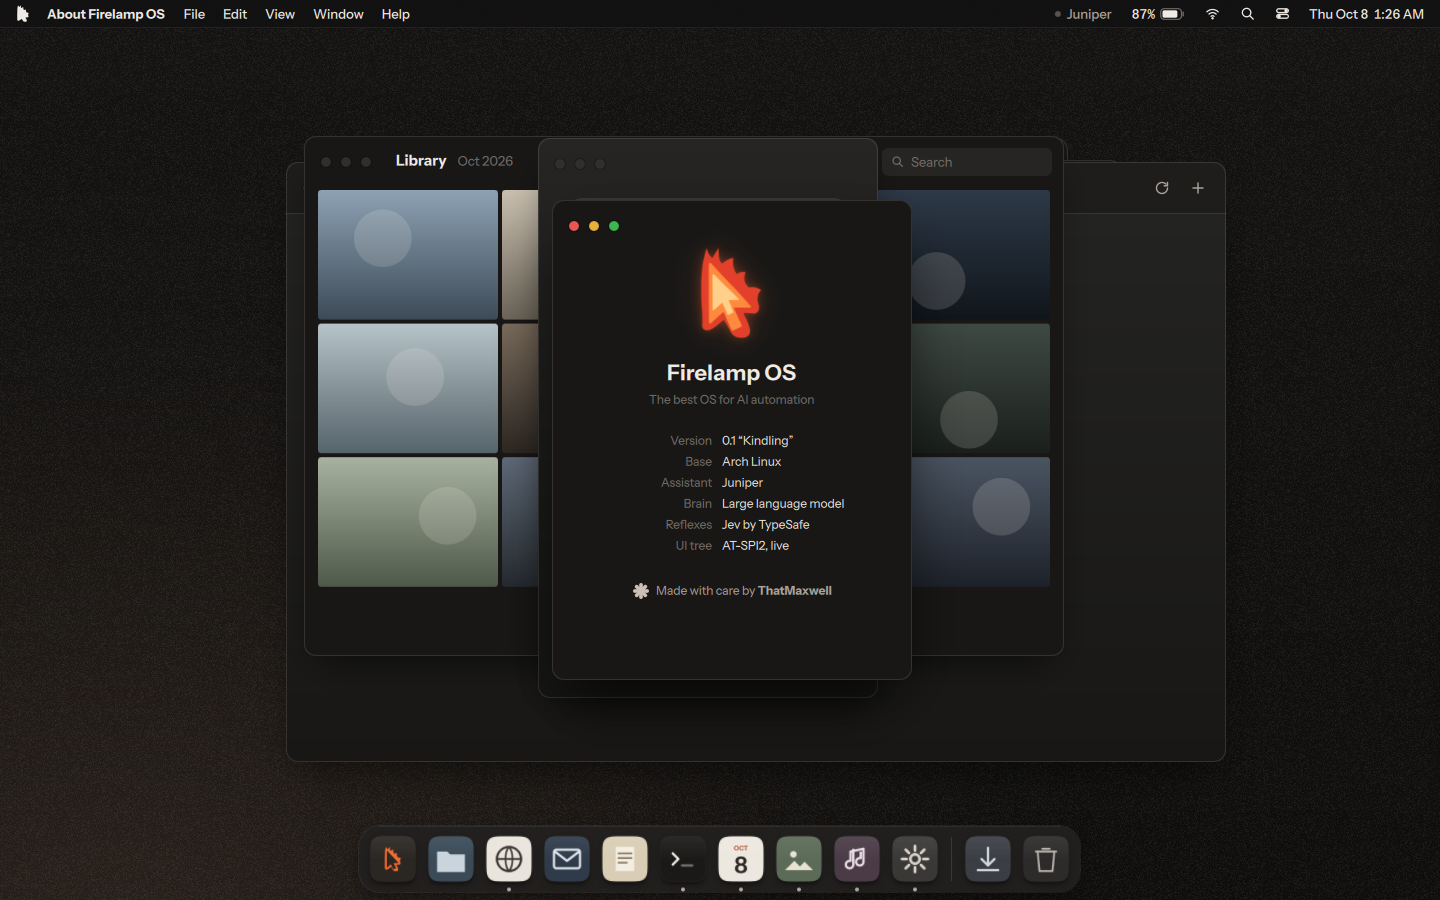
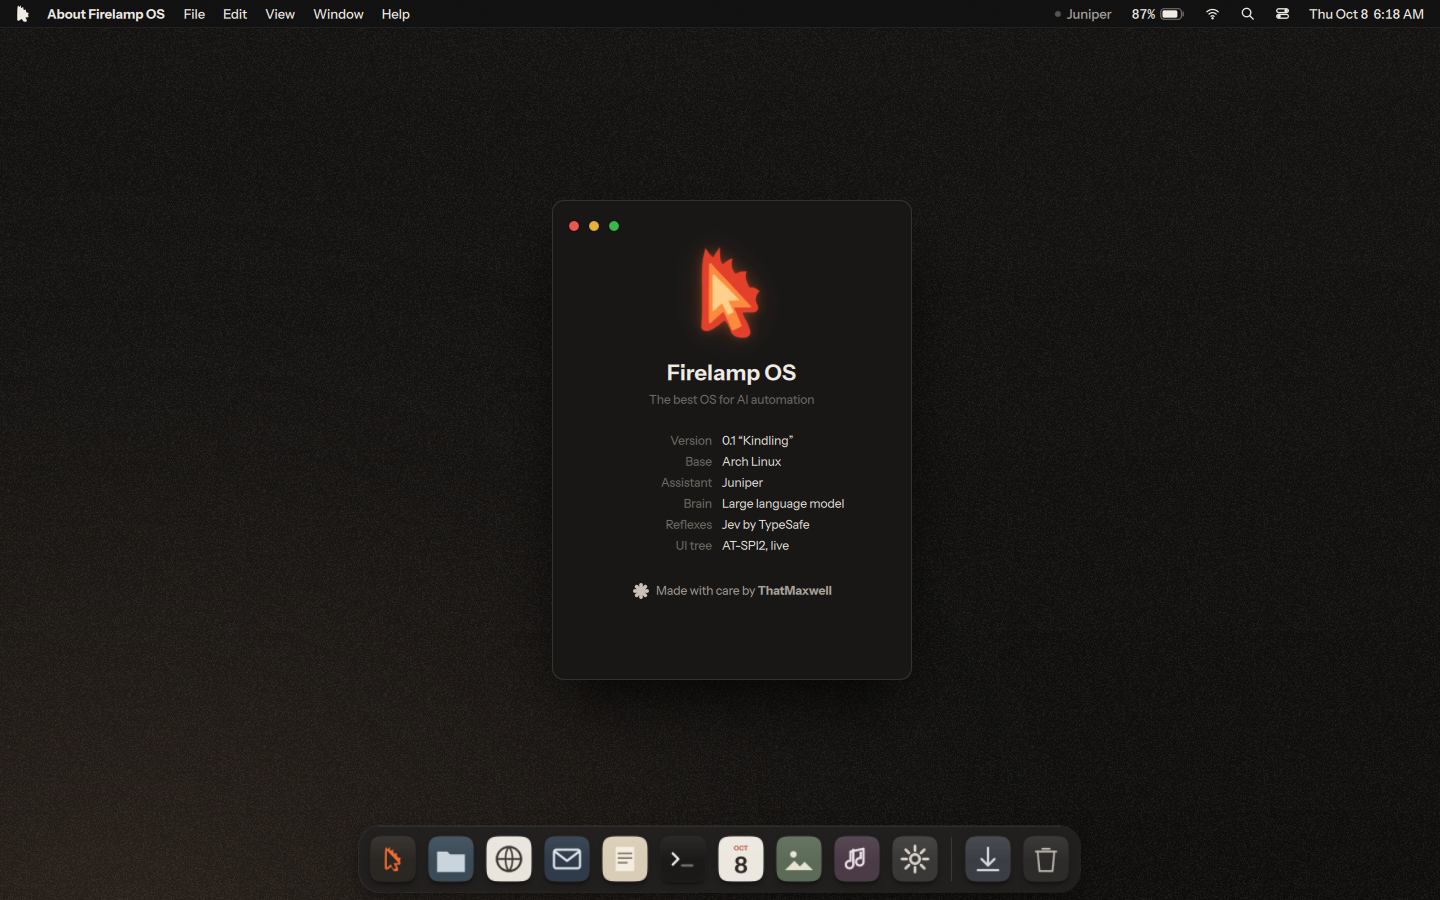
Apps: real CC0 photos, sentence-case Settings, Web recents
Photos and Music use CC0/public-domain photography (credits in
shell/assets/CREDITS) instead of placeholder shapes; Music covers are built
from the same photos with simple type. Settings section headers are
sentence case and the window fits its content. Web drops the monogram grid
for three recent pages. The apps capture closes each window before the next.

Claude-Session: https://claude.ai/code/session_01B11KmgS7KywUE1jfuntsyj

Changed region(s): [[0.2188, 0.1556, 0.375, 0.6533], [0.5938, 0.1556, 0.75, 0.6533], [0.9375, 0.0, 0.9688, 0.0311]]

diff --git a/shell/apps/Music.qml b/shell/apps/Music.qml
@@ -1,6 +1,5 @@
-// Music: now playing.
+// Music: now playing, and what's next. Covers are real photographs with simple type.
 import QtQuick
-import QtQuick.Effects
 import "../components"
 
 Rectangle {
@@ -8,45 +7,80 @@ Rectangle {
     property var win
     property bool playing: true
     function start(opts) {}
-    gradient: Gradient { GradientStop { position: 0; color: "#262524" } GradientStop { position: 0.6; color: "#1a1a19" } GradientStop { position: 1; color: "#151514" } }
+    color: Theme.surface0
+
+    // an album cover: a photograph, the title set small in the corner
+    component Cover: Item {
+        id: cv
+        property string photo
+        property string title
+        property string artist
+        property real type: 1
+        clip: true
+        Image { anchors.fill: parent; source: "../assets/photos/" + cv.photo + ".jpg"; fillMode: Image.PreserveAspectCrop; smooth: true; mipmap: true; asynchronous: true }
+        Rectangle { anchors.fill: parent; gradient: Gradient { GradientStop { position: 0.55; color: "transparent" } GradientStop { position: 1; color: Qt.rgba(0, 0, 0, 0.45) } } }
+        Column {
+            visible: cv.type > 0.5
+            x: 14 * cv.type; anchors.bottom: parent.bottom; anchors.bottomMargin: 12 * cv.type; spacing: 1
+            Text { text: cv.title; color: "#F4EFE6"; font.family: Theme.font; font.pixelSize: 15 * cv.type; font.weight: Font.DemiBold }
+            Text { text: cv.artist; color: Qt.rgba(244 / 255, 239 / 255, 230 / 255, 0.7); font.family: Theme.font; font.pixelSize: 11 * cv.type }
+        }
+    }
+
     Column {
         anchors.horizontalCenter: parent.horizontalCenter
-        y: 60; width: parent.width - 60; spacing: 18
-        Rectangle {
-            width: parent.width; height: width; radius: 14
-            gradient: Gradient { GradientStop { position: 0; color: "#3a3836" } GradientStop { position: 1; color: "#1e1d1c" } }
-            scale: app.playing ? 1 : 0.88
-            Behavior on scale { NumberAnimation { duration: 500; easing.type: Easing.OutQuint } }
-            // album art: two quiet shapes, no logo
-            Rectangle { x: parent.width * 0.18; y: parent.height * 0.2; width: parent.width * 0.46; height: width; radius: width / 2; color: "#5C6B78"; opacity: 0.85 }
-            Rectangle { x: parent.width * 0.42; y: parent.height * 0.42; width: parent.width * 0.38; height: width; radius: 6; color: "#C9BFAF"; opacity: 0.8 }
+        y: 56; width: parent.width - 48; spacing: 16
+        Cover {
+            width: parent.width; height: width
+            photo: "deep-field"; title: "Slow Rooms"; artist: "Hearth Tapes"
+            scale: app.playing ? 1 : 0.9
+            Behavior on scale { NumberAnimation { duration: 400; easing.type: Easing.OutQuint } }
+            layer.enabled: true
+            Rectangle { anchors.fill: parent; color: "transparent"; border.color: Theme.hairline; border.width: 1 }
         }
         Column {
             spacing: 2
-            Text { text: "Slow Rooms"; color: Theme.text; font.family: Theme.font; font.pixelSize: 17; font.weight: Font.Bold }
-            Text { text: "Hearth Tapes · Night Shift"; color: Theme.text3; font.family: Theme.font; font.pixelSize: 13 }
+            Text { text: "Night Shift"; color: Theme.text; font.family: Theme.font; font.pixelSize: 17; font.weight: Font.Bold }
+            Text { text: "Hearth Tapes · Slow Rooms"; color: Theme.text3; font.family: Theme.font; font.pixelSize: 13 }
         }
         Column {
             width: parent.width; spacing: 4
-            Rectangle { width: parent.width; height: 4; radius: 2; color: Qt.rgba(1, 1, 1, 0.12)
+            Rectangle { width: parent.width; height: 4; radius: 2; color: Theme.surface3
                 Rectangle { height: 4; radius: 2; color: Theme.text2; width: parent.width * 0.34
                     NumberAnimation on width { running: app.playing; to: parent.width; duration: 140000 } } }
             Item { width: parent.width; height: 14
-                Text { text: "1:12"; color: Theme.text3; font.family: Theme.font; font.pixelSize: 10 }
-                Text { anchors.right: parent.right; text: "-2:21"; color: Theme.text3; font.family: Theme.font; font.pixelSize: 10 } }
+                Text { text: "1:12"; color: Theme.text3; font.family: Theme.mono; font.pixelSize: 10 }
+                Text { anchors.right: parent.right; text: "-2:21"; color: Theme.text3; font.family: Theme.mono; font.pixelSize: 10 } }
         }
         Row {
             anchors.horizontalCenter: parent.horizontalCenter; spacing: 34
-            Glyph { name: "chevronL"; width: 22; height: 22; anchors.verticalCenter: parent.verticalCenter }
+            Glyph { name: "chevronL"; width: 20; height: 20; color: Theme.text2; anchors.verticalCenter: parent.verticalCenter }
             Rectangle {
                 property string aiName: app.playing ? "Pause" : "Play"
                 property string aiRole: "button"
                 function aiActivate() { app.playing = !app.playing; }
-                width: 52; height: 52; radius: 26; color: Theme.text
-                Glyph { anchors.centerIn: parent; name: app.playing ? "pause" : "play"; color: "#1b1210"; width: 22; height: 22 }
+                width: 48; height: 48; radius: 24; color: Theme.text
+                Glyph { anchors.centerIn: parent; name: app.playing ? "pause" : "play"; color: Theme.bg; width: 20; height: 20 }
                 MouseArea { anchors.fill: parent; onClicked: parent.aiActivate() }
             }
-            Glyph { name: "chevron"; width: 22; height: 22; anchors.verticalCenter: parent.verticalCenter }
+            Glyph { name: "chevron"; width: 20; height: 20; color: Theme.text2; anchors.verticalCenter: parent.verticalCenter }
+        }
+        Rectangle { width: parent.width; height: 1; color: Theme.hairline }
+        Column {
+            width: parent.width; spacing: 8
+            Text { text: "Up next"; color: Theme.text2; font.family: Theme.font; font.pixelSize: 13; font.weight: Font.DemiBold }
+            Repeater {
+                model: [["launch-dusk", "Launch Window", "Pad Lights"], ["espresso", "Second Cup", "Pikolo Sessions"], ["gravel", "Gravel Hours", "Hearth Tapes"]]
+                Row {
+                    required property var modelData
+                    property string aiName: modelData[1]; property string aiRole: "listitem"
+                    spacing: 12
+                    Cover { width: 36; height: 36; type: 0; photo: parent.modelData[0] }
+                    Column { anchors.verticalCenter: parent.verticalCenter; spacing: 1
+                        Text { text: parent.parent.modelData[1]; color: Theme.text; font.family: Theme.font; font.pixelSize: 13 }
+                        Text { text: parent.parent.modelData[2]; color: Theme.text3; font.family: Theme.font; font.pixelSize: 11 } }
+                }
+            }
         }
     }
 }

diff --git a/shell/apps/Photos.qml b/shell/apps/Photos.qml
@@ -1,4 +1,4 @@
-// Photos: a library grid.
+// Photos: the library, grouped by day, each row justified to the window like a contact sheet.
 import QtQuick
 import "../components"
 
@@ -6,28 +6,53 @@ Item {
     id: app
     property var win
     function start(opts) {}
-    // a real-looking library: skies, sea, moss, stone, dusk; one warm evening, not twelve
-    readonly property var photos: [["#8DA2B4", "#3E4C59"], ["#C9C0B0", "#6E665A"], ["#5E6E58", "#26301F"], ["#2E3A48", "#11161C"], ["#B7C3C8", "#56656C"], ["#7A6C5D", "#2E2822"],
-                                   ["#D8A47A", "#4A3428"], ["#3F4A44", "#1B201D"], ["#A7B2A0", "#4F5A4A"], ["#606B78", "#262B31"], ["#D9D2C5", "#9A9183"], ["#4B5563", "#1E232A"]]
+    // real photographs (CC0 / public domain, see assets/CREDITS), with their aspect ratios
+    readonly property var days: [
+        { title: "Today", photos: [["launch-dusk", 1.5], ["espresso", 1.5], ["deep-field", 1.147]] },
+        { title: "Sunday, October 6", photos: [["chelsea", 1.503], ["chelsea-close", 1.506], ["espresso-spoon", 1.125], ["launch-tower", 0.653]] },
+        { title: "September 28", photos: [["deep-field-detail", 1.147], ["brick", 1], ["gravel", 1]] }
+    ]
     Row {
         x: 92; y: 15; spacing: 10
-        Text { text: "Library"; color: Theme.text; font.family: Theme.font; font.pixelSize: 15; font.weight: Font.Bold }
-        Text { text: "Oct 2026"; color: Theme.text3; font.family: Theme.font; font.pixelSize: 13; anchors.baseline: parent.children[0].baseline }
+        Text { id: lib; text: "Library"; color: Theme.text; font.family: Theme.font; font.pixelSize: 15; font.weight: Font.Bold }
+        Text { text: "10 photos"; color: Theme.text3; font.family: Theme.font; font.pixelSize: 13; anchors.baseline: lib.baseline }
     }
     SearchPill { anchors.right: parent.right; anchors.rightMargin: 12; y: 12 }
-    Grid {
-        id: g
-        x: 14; y: 54; columns: 4; spacing: 4
-        readonly property real cell: (app.width - 28 - 12) / 4
-        Repeater {
-            model: app.photos.length
-            Rectangle {
-                required property int index
-                property string aiName: "Photo " + (index + 1)
-                property string aiRole: "image"
-                width: g.cell; height: g.cell * 0.72; radius: 3
-                gradient: Gradient { GradientStop { position: 0; color: app.photos[index][0] } GradientStop { position: 1; color: app.photos[index][1] } }
-                Rectangle { x: parent.width * (0.2 + (index * 17 % 50) / 100); y: parent.height * (0.15 + (index * 11 % 40) / 100); width: parent.width * 0.32; height: width; radius: width / 2; color: "#F4EFE6"; opacity: 0.16 }
+    Flickable {
+        id: fl
+        x: 14; y: 52; width: parent.width - 28; height: parent.height - y
+        contentHeight: col.height + 14
+        clip: true
+        boundsBehavior: Flickable.StopAtBounds
+        Column {
+            id: col
+            width: fl.width
+            spacing: 6
+            Repeater {
+                model: app.days
+                Column {
+                    id: day
+                    required property var modelData
+                    readonly property real sum: modelData.photos.reduce(function (s, p) { return s + p[1]; }, 0)
+                    readonly property real rowH: Math.min(220, (col.width - 4 * (modelData.photos.length - 1)) / sum)
+                    width: col.width; spacing: 8
+                    Text { text: day.modelData.title; color: Theme.text; font.family: Theme.font; font.pixelSize: 13; font.weight: Font.DemiBold; topPadding: 6 }
+                    Row {
+                        spacing: 4
+                        Repeater {
+                            model: day.modelData.photos
+                            Image {
+                                required property var modelData
+                                property string aiName: "Photo " + modelData[0]
+                                property string aiRole: "image"
+                                width: Math.round(day.rowH * modelData[1]); height: Math.round(day.rowH)
+                                source: "../assets/photos/" + modelData[0] + ".jpg"
+                                fillMode: Image.PreserveAspectCrop
+                                asynchronous: true; smooth: true; mipmap: true
+                            }
+                        }
+                    }
+                }
             }
         }
     }

diff --git a/shell/apps/Web.qml b/shell/apps/Web.qml
@@ -45,17 +45,23 @@ Item {
                 Glyph { x: 18; anchors.verticalCenter: parent.verticalCenter; name: "search"; color: Theme.text3 }
                 Text { x: 44; anchors.verticalCenter: parent.verticalCenter; text: "Search or ask anything"; color: Theme.text3; font.family: Theme.font; font.pixelSize: 14 }
             }
-            Grid {
-                anchors.horizontalCenter: parent.horizontalCenter; columns: 4; columnSpacing: 26; rowSpacing: 16; topPadding: 8
+            // where you were, not a wall of letter tiles
+            Column {
+                width: 480; spacing: 2; topPadding: 6
+                Text { x: 4; text: "Recent"; color: Theme.text2; font.family: Theme.font; font.pixelSize: 13; font.weight: Font.DemiBold; bottomPadding: 6 }
                 Repeater {
-                    model: [["GitHub", "#2C2B2A"], ["Jev", "#3A3836"], ["Hearth", "#5B5550"], ["Arch Wiki", "#3A4A57"], ["Maps", "#5B6B57"], ["News", "#7A6C5D"], ["Music", "#4A3B47"], ["Docs", "#D9CDB5"]]
-                    Column {
+                    model: [["Installation guide", "wiki.archlinux.org", "doc"], ["Jev early access: getting started", "typesafe.ai/jev", "type"], ["ThatMaxwell/Firelamp-WIP-", "github.com", "code"]]
+                    Rectangle {
+                        id: rr
                         required property var modelData
                         property string aiName: modelData[0]; property string aiRole: "link"
-                        spacing: 6; width: 72
-                        Rectangle { width: 52; height: 52; radius: 14; color: parent.modelData[1]; anchors.horizontalCenter: parent.horizontalCenter
-                            Text { anchors.centerIn: parent; text: parent.parent.modelData[0][0]; color: parent.parent.modelData[0] === "Docs" ? "#2A2622" : "#EFEAE4"; font.family: Theme.font; font.pixelSize: 20; font.weight: Font.DemiBold } }
-                        Text { anchors.horizontalCenter: parent.horizontalCenter; text: parent.modelData[0]; color: Theme.text2; font.family: Theme.font; font.pixelSize: 12 }
+                        width: 480; height: 40; radius: 8
+                        color: rma.containsMouse ? Theme.hover : "transparent"
+                        Rectangle { x: 8; width: 24; height: 24; radius: 6; anchors.verticalCenter: parent.verticalCenter; color: Theme.surface2; border.color: Theme.hairline; border.width: 1
+                            Glyph { anchors.centerIn: parent; width: 12; height: 12; name: "globe"; color: Theme.text3 } }
+                        Text { x: 44; anchors.verticalCenter: parent.verticalCenter; text: rr.modelData[0]; color: Theme.text; font.family: Theme.font; font.pixelSize: 13 }
+                        Text { anchors.right: parent.right; anchors.rightMargin: 10; anchors.verticalCenter: parent.verticalCenter; text: rr.modelData[1]; color: Theme.text3; font.family: Theme.font; font.pixelSize: 12 }
+                        MouseArea { id: rma; anchors.fill: parent; hoverEnabled: true }
                     }
                 }
             }

diff --git a/shell/apps/Settings.qml b/shell/apps/Settings.qml
@@ -24,7 +24,7 @@ Item {
         width: parent ? parent.width : 0; height: groupCol.height
         radius: 10; color: Qt.rgba(1, 1, 1, 0.04); border.color: Theme.line; border.width: 0.5
         Column { id: groupCol; width: parent.width }
-        Text { y: -22; x: 4; text: parent.title; color: Theme.text3; font.family: Theme.font; font.pixelSize: 11; font.weight: Font.DemiBold }
+        Text { y: -26; x: 4; text: parent.title; color: Theme.text2; font.family: Theme.font; font.pixelSize: 13; font.weight: Font.DemiBold }
     }
     component Kbd: Rectangle {
         property string k
@@ -47,7 +47,7 @@ Item {
             x: 24; y: 56; width: parent.width - 48; height: parent.height - 56
             contentHeight: col.height + 30; clip: true; boundsBehavior: Flickable.StopAtBounds
             Column {
-                id: col; width: fl.width; spacing: 40
+                id: col; width: fl.width; spacing: 50
                 Row {
                     spacing: 18; topPadding: 8
                     Logo { width: 54; height: 63; animated: true }
@@ -63,14 +63,14 @@ Item {
                     }
                 }
                 Group {
-                    title: "SAFETY"
+                    title: "Safety"
                     Row2 { title: "Ask before risky actions"; hint: "Deleting, sending, paying. The OS asks you, never the AI."
                            Toggle { label: "Ask before risky actions"; checked: Os.settings.askBeforeRisky; onToggled: (c) => Os.settings.askBeforeRisky = c } }
                     Rectangle { width: parent.width - 32; x: 16; height: 0.5; color: Theme.line }
                     Row2 { title: "Pause or stop instantly"; hint: "Works from anywhere, even mid-click"; Kbd { k: "⌃ Space" } Kbd { k: "Esc" } }
                 }
                 Group {
-                    title: "FIRE CURSOR"
+                    title: "Fire cursor"
                     Row2 {
                         title: "Speed"; hint: "How fast it moves between things"
                         Item {

diff --git a/shell/Main.qml b/shell/Main.qml
@@ -31,8 +31,8 @@ Window {
         { id: "terminal", title: "Terminal", icon: "terminal", src: "Terminal", w: 680, h: 440, titled: true },
         { id: "calendar", title: "Calendar", icon: "calendar", src: "Calendar", w: 780, h: 560 },
         { id: "photos", title: "Photos", icon: "photos", src: "Photos", w: 760, h: 520 },
-        { id: "music", title: "Music", icon: "music", src: "Music", w: 340, h: 560 },
-        { id: "settings", title: "System Settings", icon: "settings", src: "Settings", w: 720, h: 560 },
+        { id: "music", title: "Music", icon: "music", src: "Music", w: 340, h: 700 },
+        { id: "settings", title: "System Settings", icon: "settings", src: "Settings", w: 720, h: 520 },
         { id: "about", title: "About Firelamp OS", icon: "assistant", src: "About", w: 360, h: 480, noDock: true }
     ]
 

diff --git a/tools/qml_capture.py b/tools/qml_capture.py
@@ -145,10 +145,12 @@ if scene == "desktop":
     still("desktop", 2600)
     stop(2800)
 elif scene == "apps":
+    # one window at a time on a clean desktop: each app is closed before the next opens
     for i, a in enumerate(["terminal", "settings", "calendar", "web", "photos", "music", "about"]):
-        at(500 + i * 2000, lambda a=a: call("launch", a))
-        still("app-" + a, 1900 + i * 2000)
-    stop(500 + 7 * 2000 + 300)
+        at(500 + i * 2400, lambda a=a: call("launch", a))
+        still("app-" + a, 2100 + i * 2400)
+        at(2300 + i * 2400, lambda: call("closeTop"))
+    stop(500 + 7 * 2400 + 300)
 elif scene == "dock":
     start(300)
     cx, y = 720, 900 - 40
